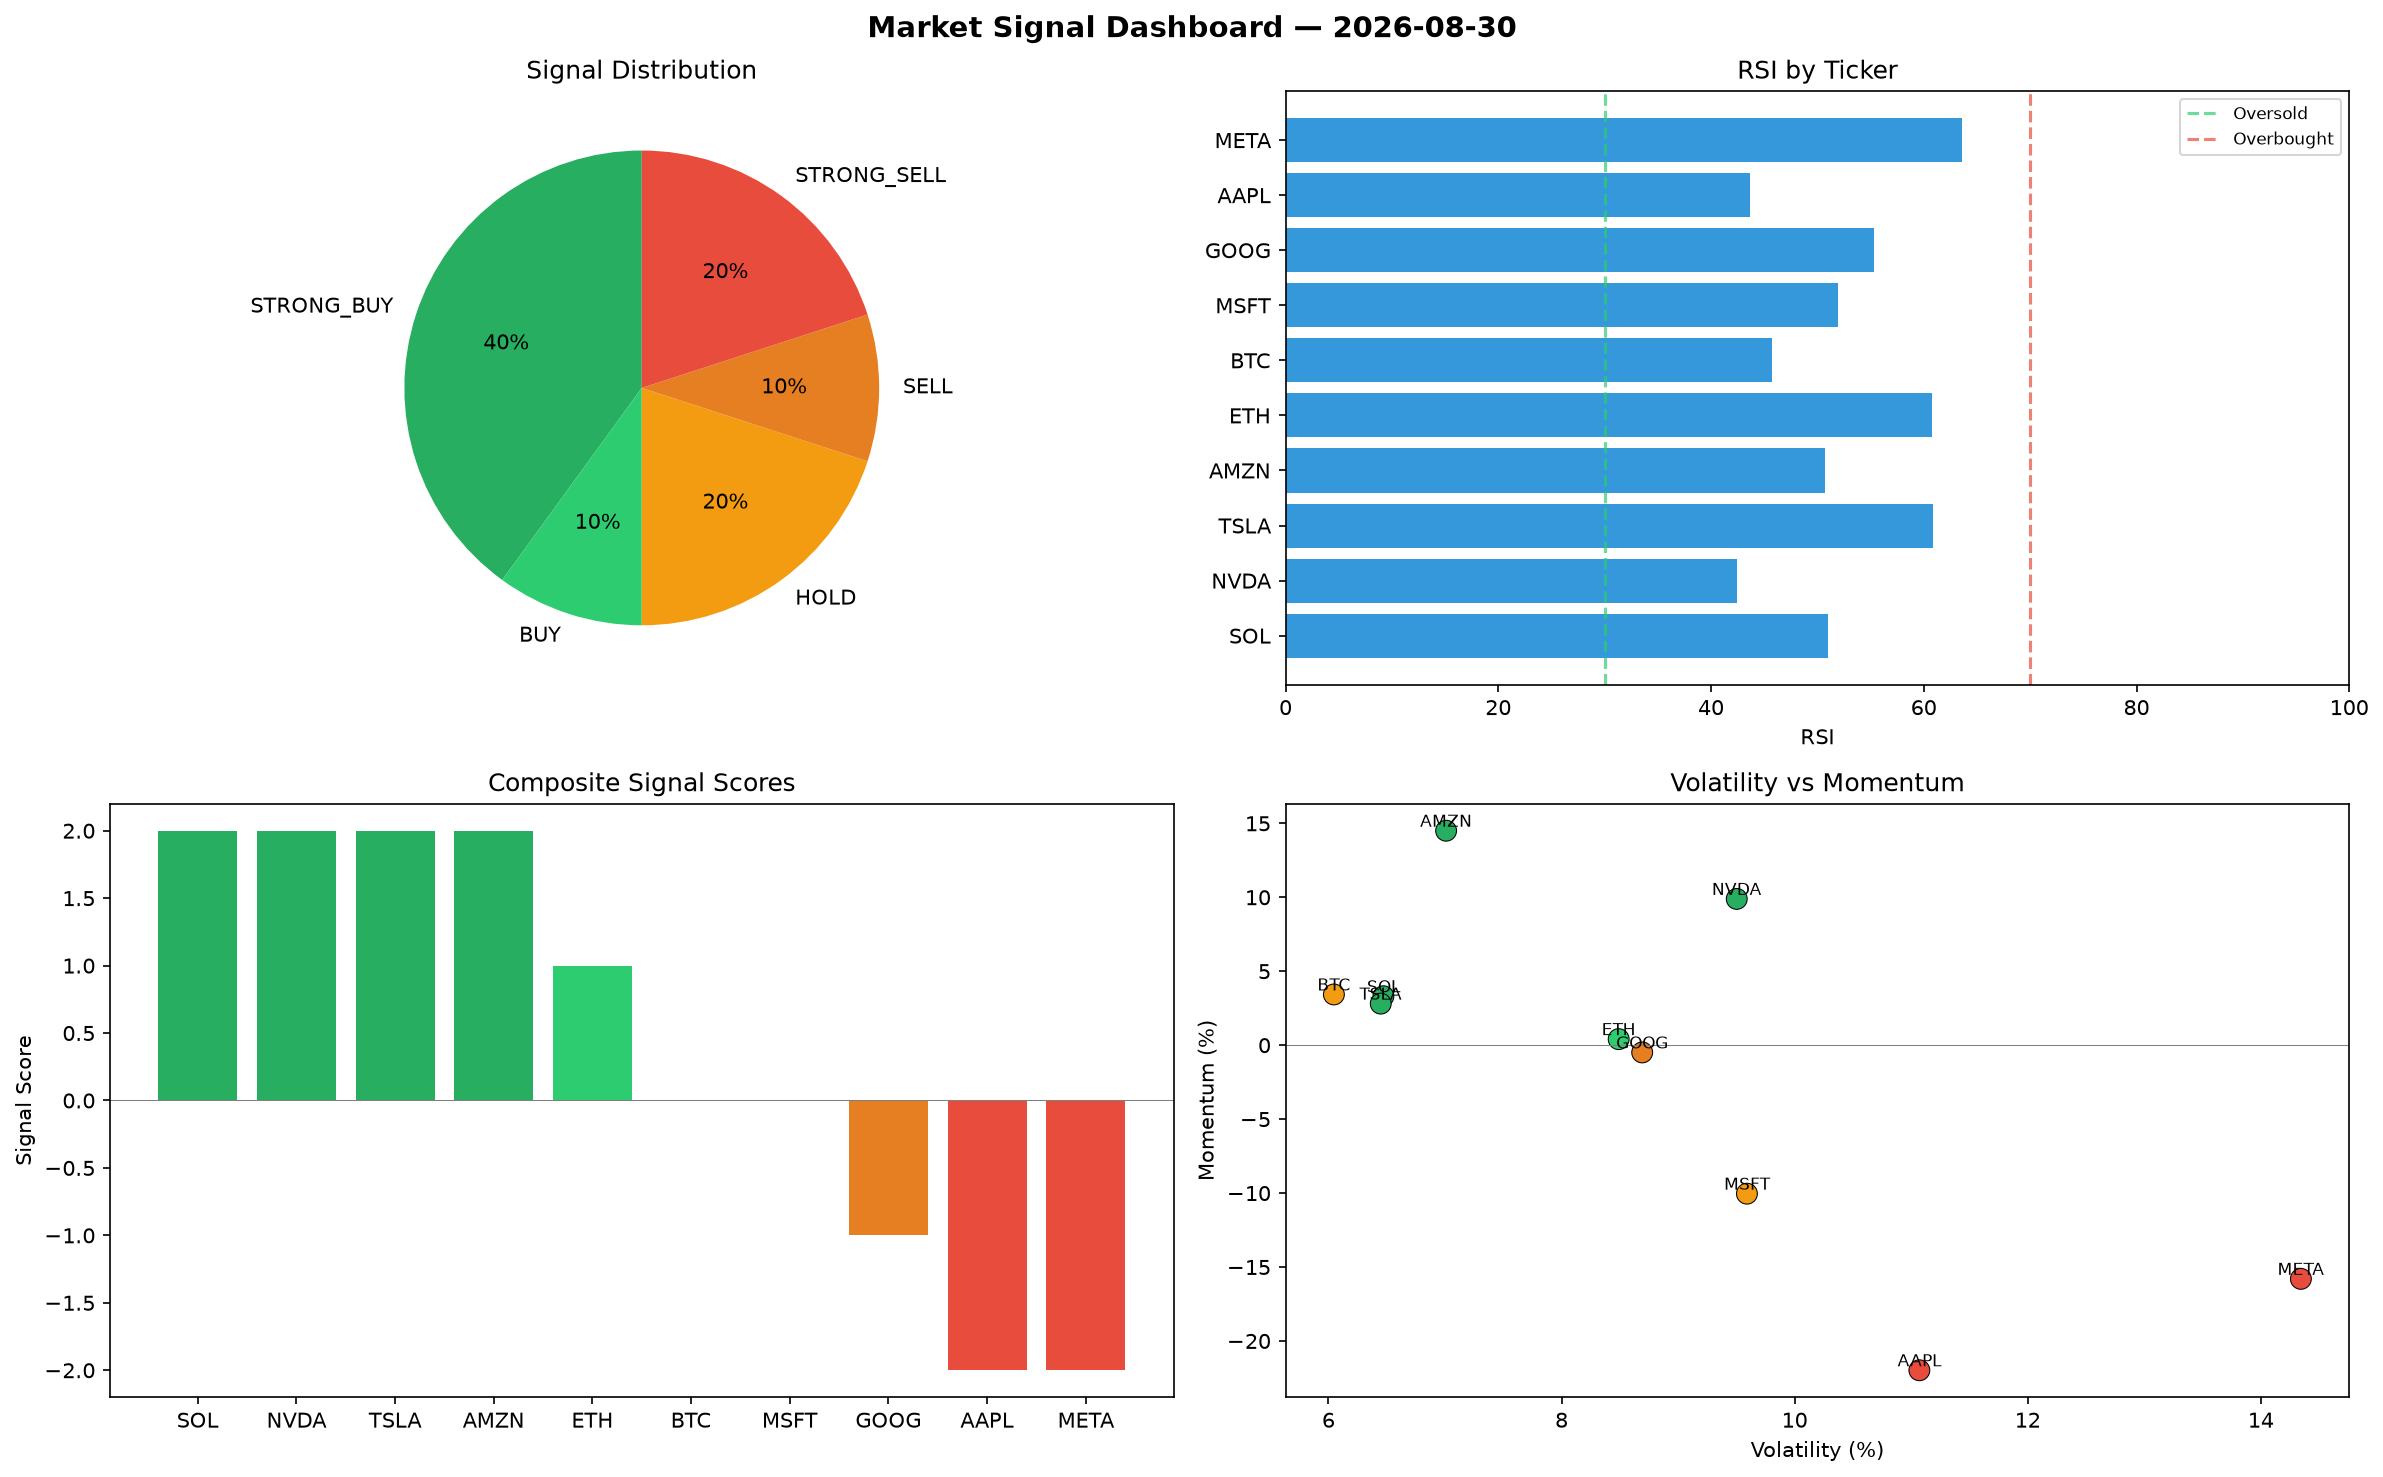
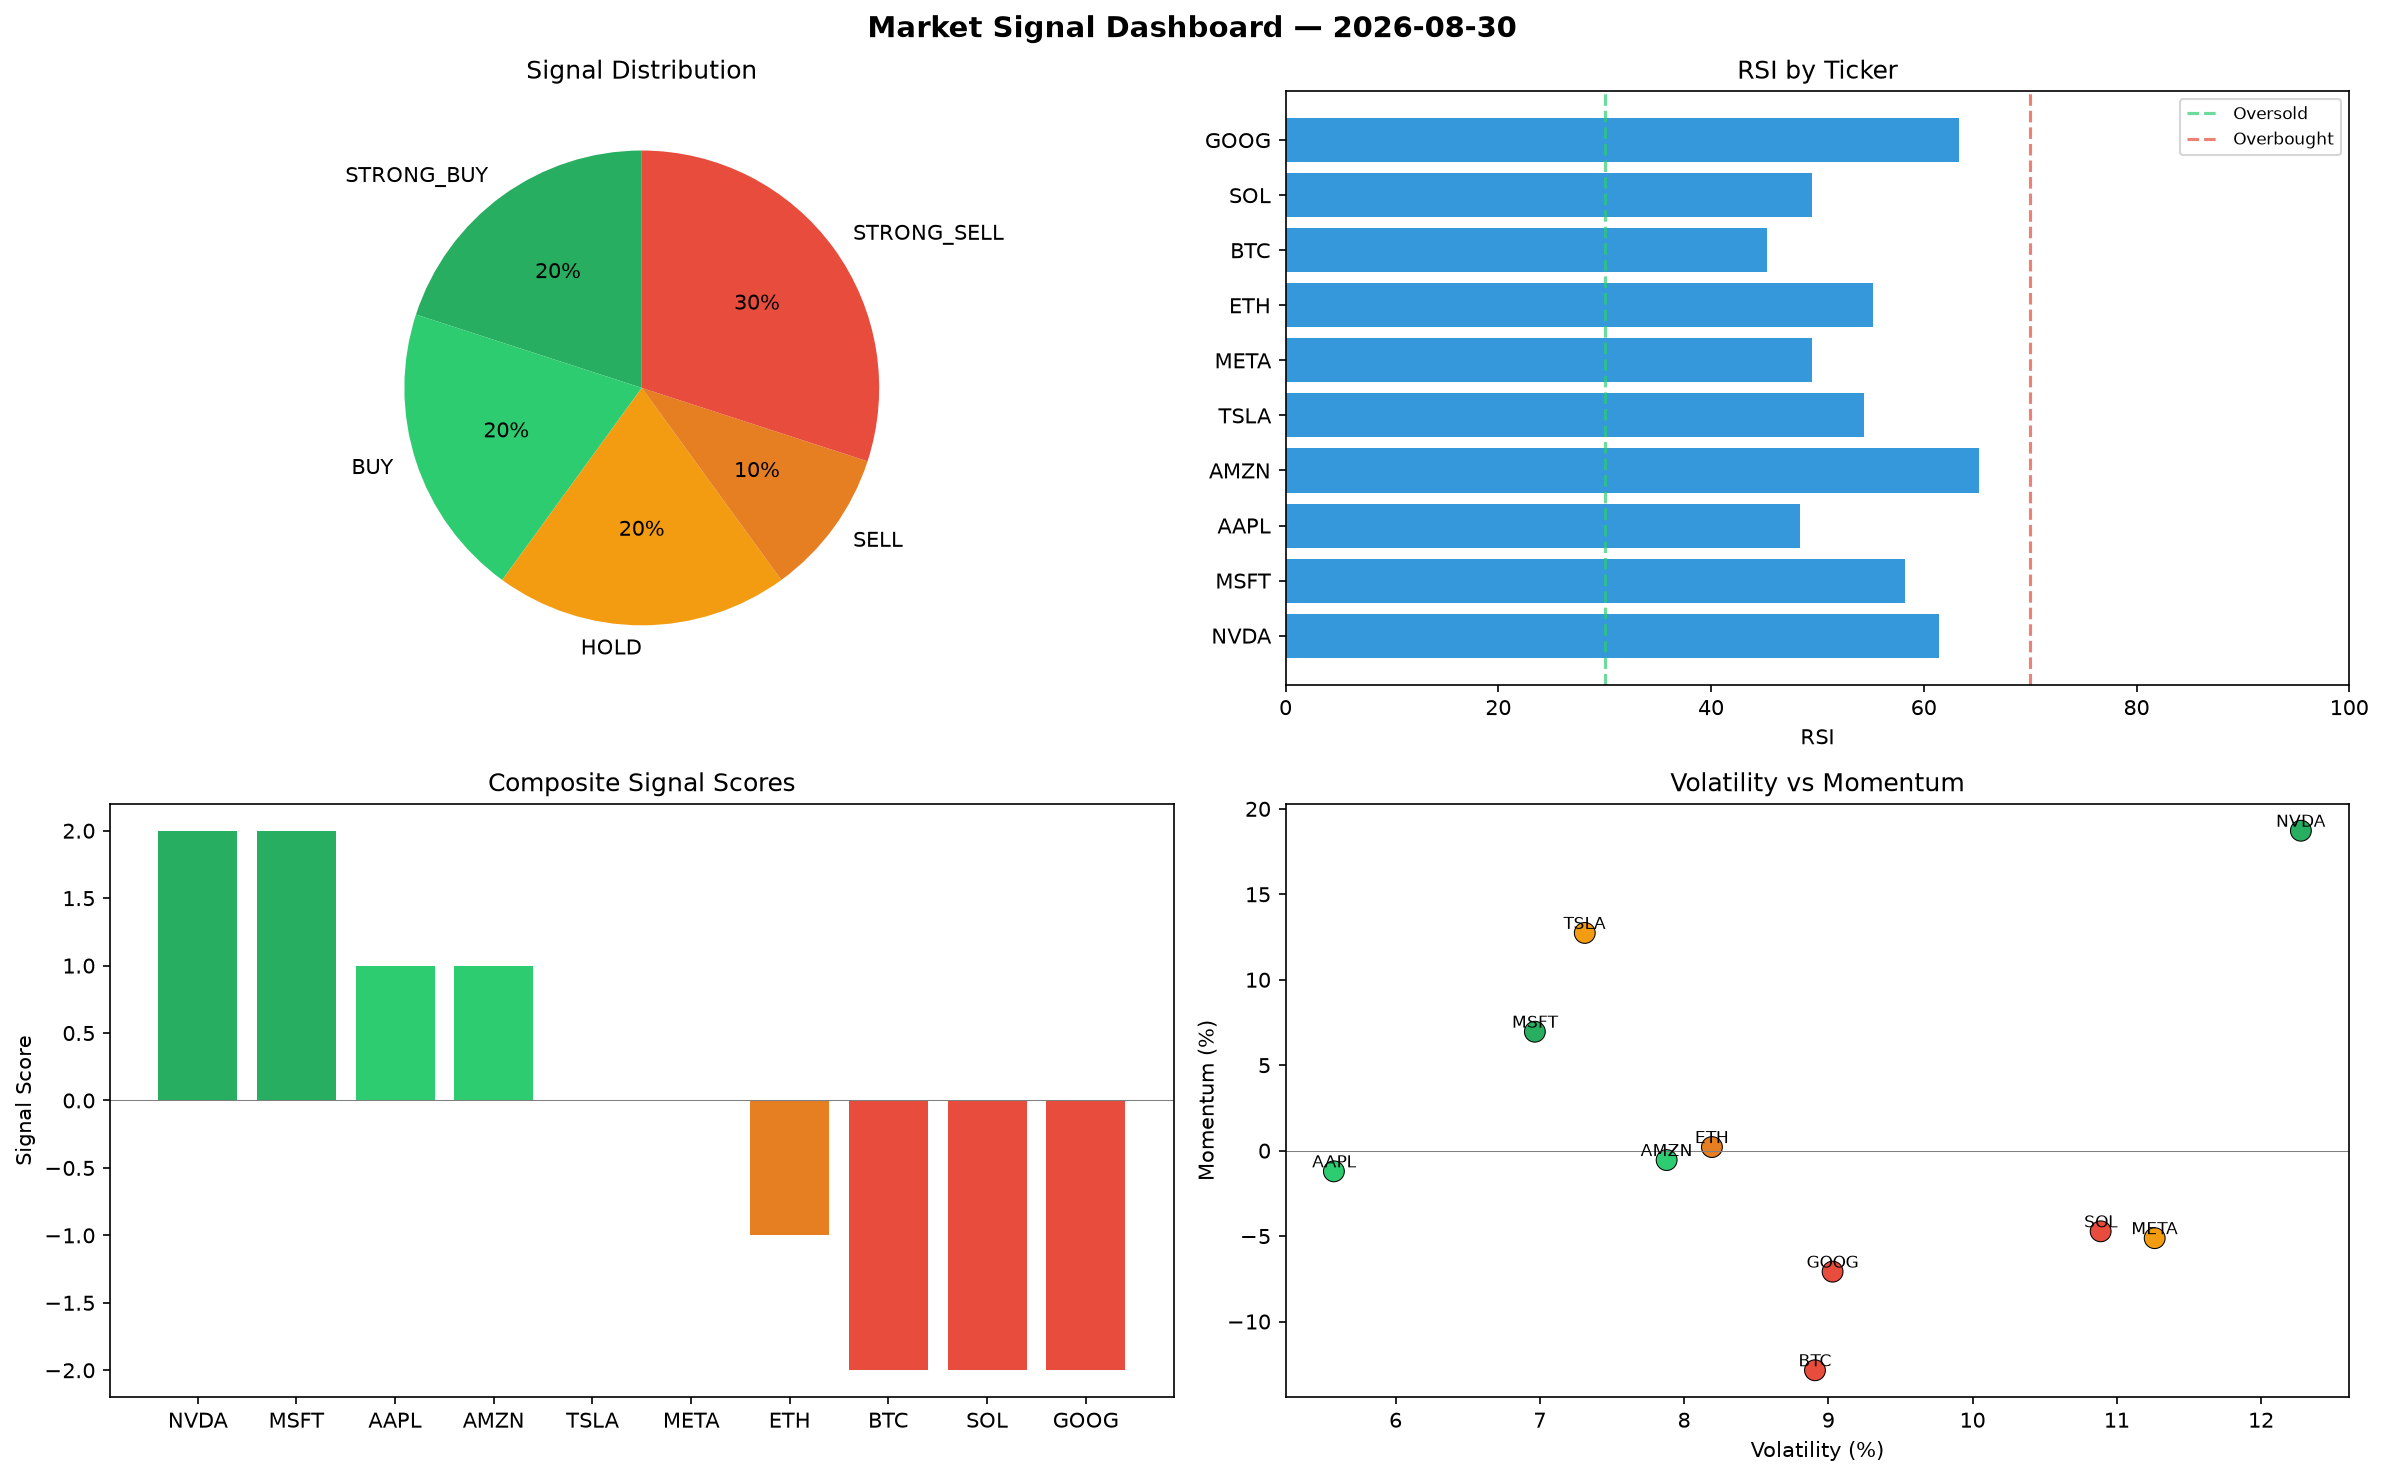
automated-bots: market signals 2026-08-30T13:53

diff --git a/logs/2026-08-30.md b/logs/2026-08-30.md
@@ -1,6 +1,6 @@
 # Market Signal Report — 2026-08-30
 
-**Run ID:** `b11a5abaea` | **Buy:** 5 | **Sell:** 3 | **Hold:** 2
+**Run ID:** `2e83de5e5b` | **Buy:** 4 | **Sell:** 4 | **Hold:** 2
 
 ![Dashboard](2026-08-30_dashboard.png)
 
@@ -8,28 +8,28 @@
 
 | Ticker | Price | Signal | Score | RSI | Momentum | Confidence |
 |--------|-------|--------|-------|-----|----------|------------|
-| SOL | $3308.59 | **STRONG_BUY** | 2 | 51.01 | 0.0331 | 0.5 |
-| NVDA | $4378.66 | **STRONG_BUY** | 2 | 42.4 | 0.0989 | 0.5 |
-| TSLA | $2119.24 | **STRONG_BUY** | 2 | 60.86 | 0.0281 | 0.5 |
-| AMZN | $1835.18 | **STRONG_BUY** | 2 | 50.7 | 0.145 | 0.5 |
-| ETH | $2359.96 | **BUY** | 1 | 60.74 | 0.0041 | 0.25 |
-| BTC | $1537.81 | **HOLD** | 0 | 45.75 | 0.0343 | 0.0 |
-| MSFT | $124.16 | **HOLD** | 0 | 51.98 | -0.1004 | 0.0 |
-| GOOG | $1976.39 | **SELL** | -1 | 55.33 | -0.0049 | 0.25 |
-| AAPL | $1655.99 | **STRONG_SELL** | -2 | 43.65 | -0.2198 | 0.5 |
-| META | $1776.25 | **STRONG_SELL** | -2 | 63.58 | -0.158 | 0.5 |
+| NVDA | $884.05 | **STRONG_BUY** | 2 | 61.4 | 0.1872 | 0.5 |
+| MSFT | $4977.79 | **STRONG_BUY** | 2 | 58.19 | 0.0696 | 0.5 |
+| AAPL | $1731.32 | **BUY** | 1 | 48.4 | -0.0121 | 0.25 |
+| AMZN | $2223.57 | **BUY** | 1 | 65.21 | -0.0055 | 0.25 |
+| TSLA | $5152.57 | **HOLD** | 0 | 54.37 | 0.1274 | 0.0 |
+| META | $1003.35 | **HOLD** | 0 | 49.49 | -0.0512 | 0.0 |
+| ETH | $704.59 | **SELL** | -1 | 55.27 | 0.0021 | 0.25 |
+| BTC | $3383.82 | **STRONG_SELL** | -2 | 45.25 | -0.1285 | 0.5 |
+| SOL | $827.79 | **STRONG_SELL** | -2 | 49.46 | -0.0472 | 0.5 |
+| GOOG | $1318.12 | **STRONG_SELL** | -2 | 63.32 | -0.0708 | 0.5 |
 
 ## Delta vs Yesterday
 
 | Ticker | Today | Yesterday | Price Change | Signal Changed |
 |--------|-------|-----------|-------------|----------------|
-| SOL | STRONG_BUY | STRONG_SELL | 📈 21.06% | ⚠ YES |
-| NVDA | STRONG_BUY | STRONG_SELL | 📈 22.41% | ⚠ YES |
-| TSLA | STRONG_BUY | STRONG_BUY | 📈 50.18% | — |
-| AMZN | STRONG_BUY | HOLD | 📉 -55.47% | ⚠ YES |
-| ETH | BUY | STRONG_BUY | 📉 -51.61% | ⚠ YES |
-| BTC | HOLD | HOLD | 📉 -48.2% | — |
-| MSFT | HOLD | STRONG_BUY | 📉 -89.17% | ⚠ YES |
-| GOOG | SELL | STRONG_SELL | 📈 2.6% | ⚠ YES |
-| AAPL | STRONG_SELL | BUY | 📈 103.28% | ⚠ YES |
-| META | STRONG_SELL | SELL | 📉 -63.5% | ⚠ YES |
+| NVDA | STRONG_BUY | STRONG_SELL | 📉 -75.29% | ⚠ YES |
+| MSFT | STRONG_BUY | STRONG_BUY | 📈 334.03% | — |
+| AAPL | BUY | BUY | 📈 112.52% | — |
+| AMZN | BUY | HOLD | 📉 -46.05% | ⚠ YES |
+| TSLA | HOLD | STRONG_BUY | 📈 265.14% | ⚠ YES |
+| META | HOLD | SELL | 📉 -79.38% | ⚠ YES |
+| ETH | SELL | STRONG_BUY | 📉 -85.55% | ⚠ YES |
+| BTC | STRONG_SELL | HOLD | 📈 13.98% | ⚠ YES |
+| SOL | STRONG_SELL | STRONG_SELL | 📉 -69.71% | — |
+| GOOG | STRONG_SELL | STRONG_SELL | 📉 -31.57% | — |
